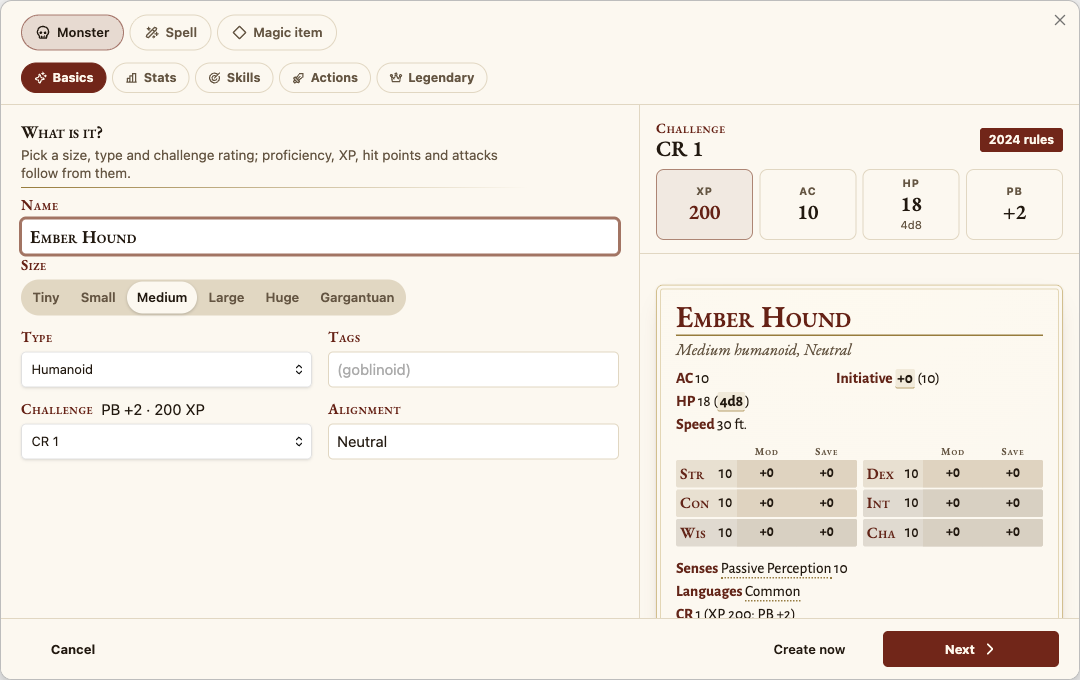
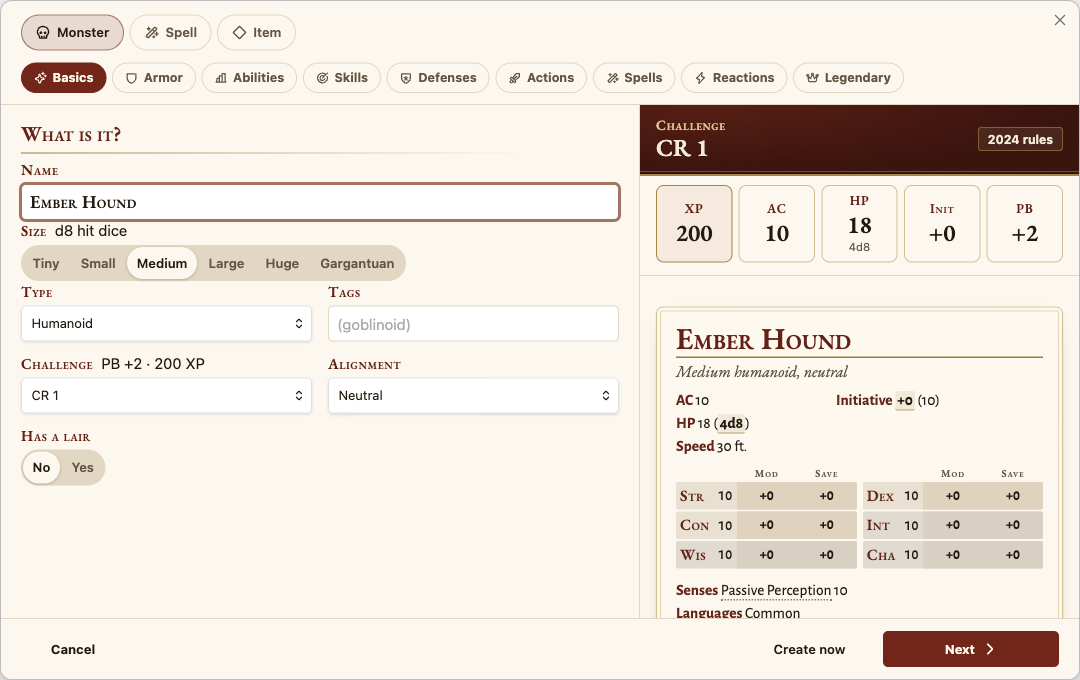
📝 The 5e guide covers every builder field and each step of New character and Level up
"Make your own" now walks through building a monster, a spell and an item,
with a weapon block as an example and your items on sheets; homebrew is tagged
Homebrew. "Character sheets" lists the wizard's seven steps (tools and
languages, class choices, increases, equipment), what Level up asks and shows,
and that multiclassing isn't supported. New screenshots of the monster builder
and Level up, a fresh New character, and the design study's builder shots with
the wizard and Level up added.

diff --git a/prototypes/encounter-design-study.html b/prototypes/encounter-design-study.html
@@ -11592,8 +11592,10 @@ DEFS['5e'].tools = {
 		TOOL_SHOT('5e-roll-result', 236, 'Where a roll lands', 'A d20 for a d20 roll, the total in EB Garamond.'),
 		TOOL_SHOT('5e-homebrew-spell', 664, 'A homebrew spell (```5e-spell)', 'The compendium’s card with the gold hairline; Homebrew, not SRD 5.2.'),
 		TOOL_SHOT('5e-homebrew-item', 664, 'A homebrew item (```5e-item)', 'The same frame.'),
-		TOOL_SHOT('5e-builder-monster', 1080, 'New monster: Basics', 'Labels in small caps, the edition as an oxblood tag, the stat block the book’s.'),
+		TOOL_SHOT('5e-builder-monster', 1080, 'New monster: Basics', 'Labels in small caps; the check on the sheet’s oxblood banner with a gold rule, its numbers on gold-edged plaques; the stat block the book’s.'),
 		TOOL_SHOT('5e-builder-spell', 1080, 'New spell', 'The same frame for a spell.'),
+		TOOL_SHOT('5e-character-wizard', 1080, 'New character: Abilities', 'Ability plaques with gold corners, a score swapped by picking another’s; the hero in brief on the banner, saves and skills marked with the sheet’s diamonds.'),
+		TOOL_SHOT('5e-level-up', 1080, 'Level up', 'What the level brings beside the steps: hit points, proficiency, new features and slots, the increase.'),
 		TOOL_SHOT('5e-builder-phone', 390, 'New monster on a phone', 'Full screen; the preview is a button in the footer.'),
 		TOOL_SHOT('5e-map', 716, 'A GM map with the fight as tokens', 'Oxblood pins with a gold ring; the fight’s monsters as oxblood discs, their names in Garamond small caps.'),
 	],

diff --git a/prototypes/design-study/src/78-tools.js b/prototypes/design-study/src/78-tools.js
@@ -64,8 +64,10 @@ DEFS['5e'].tools = {
 		TOOL_SHOT('5e-roll-result', 236, 'Where a roll lands', 'A d20 for a d20 roll, the total in EB Garamond.'),
 		TOOL_SHOT('5e-homebrew-spell', 664, 'A homebrew spell (```5e-spell)', 'The compendium’s card with the gold hairline; Homebrew, not SRD 5.2.'),
 		TOOL_SHOT('5e-homebrew-item', 664, 'A homebrew item (```5e-item)', 'The same frame.'),
-		TOOL_SHOT('5e-builder-monster', 1080, 'New monster: Basics', 'Labels in small caps, the edition as an oxblood tag, the stat block the book’s.'),
+		TOOL_SHOT('5e-builder-monster', 1080, 'New monster: Basics', 'Labels in small caps; the check on the sheet’s oxblood banner with a gold rule, its numbers on gold-edged plaques; the stat block the book’s.'),
 		TOOL_SHOT('5e-builder-spell', 1080, 'New spell', 'The same frame for a spell.'),
+		TOOL_SHOT('5e-character-wizard', 1080, 'New character: Abilities', 'Ability plaques with gold corners, a score swapped by picking another’s; the hero in brief on the banner, saves and skills marked with the sheet’s diamonds.'),
+		TOOL_SHOT('5e-level-up', 1080, 'Level up', 'What the level brings beside the steps: hit points, proficiency, new features and slots, the increase.'),
 		TOOL_SHOT('5e-builder-phone', 390, 'New monster on a phone', 'Full screen; the preview is a button in the footer.'),
 		TOOL_SHOT('5e-map', 716, 'A GM map with the fight as tokens', 'Oxblood pins with a gold ring; the fight’s monsters as oxblood discs, their names in Garamond small caps.'),
 	],

diff --git a/docs/5e.md b/docs/5e.md
@@ -74,9 +74,35 @@ Each group shows its CR, AC, HP and XP, and a bar shows the fight's XP against y
 
 ## Make your own
 
-**New monster…**, **New spell…** and **New item…** (or `/new-monster`, `/new-spell`, `/new-item` in a note) open 5e's builder in a 5e campaign. Fill in what you know and the rest follows from the rules: proficiency and XP from the challenge rating, hit points from the hit dice and Constitution, saves and skills from the abilities, passive Perception, and attack bonuses and damage from the ability you pick. Attacks are worded the way your edition prints them. The preview is the stat block or card itself.
+**New monster…**, **New spell…** and **New item…** (or `/new-monster`, `/new-spell`, `/new-item` in a note) open 5e's builder in a 5e campaign. Fill in what you know and the rest follows from the rules, worded the way your edition prints it. The preview is the stat block or card itself, with the challenge rating, XP, AC, HP and proficiency bonus on the banner above it.
 
-The builder looks like the book: the stat block or card on paper beside the form, and the challenge rating, XP, AC, HP and proficiency bonus above it as you work. Monsters are written as ```` ```5e ```` blocks. Spells and magic items are written as ```` ```5e-spell ```` and ```` ```5e-item ```` blocks: properties first, one per line, then the text:
+![The 5e monster builder on its Actions step: a breath weapon set up as a Dexterity saving throw with its DC from Constitution and 6d6 Fire damage, the challenge rating, XP, AC, HP, initiative and proficiency on the banner, and the stat block beside it](images/guide-5e-builder.png)
+
+### Building a monster
+
+- **Basics:** name, size, type and tags, alignment and challenge rating (its proficiency bonus and XP beside it). In 2024, whether it has a lair: the next rating's XP when you fight it there, and one more legendary action.
+- **Armor:** the armor it wears and a shield (AC follows, with Dex as the armor allows), or natural armor and its AC. Hit dice: the hit points follow from them and Constitution, or type your own. Walking, flying (and hovering), climbing, swimming and burrowing speeds.
+- **Abilities:** the six scores and the saving throws it's proficient in, each with its bonus. In 2024, initiative with proficiency or expertise.
+- **Skills:** skills and expertise, darkvision, blindsight, tremorsense and truesight, and languages. Passive Perception is worked out.
+- **Defenses:** resistances, immunities, vulnerabilities and condition immunities, and anything else as text ("bludgeoning from nonmagical attacks"). In 2024, its gear; armor and a shield go in it for you.
+- **Actions:** traits, then actions. An action is a melee, ranged, or melee or ranged attack (to hit and damage from the ability you pick, and extra damage such as "plus 7 (2d6) Fire damage"), a saving throw (its DC from an ability, who saves, the damage and half on a success, and what a failure does), or text of your own. Any action or trait can have uses: Recharge 5–6, 3/Day.
+- **Spells:** a spellcasting ability and spells at will and per day. The save DC and attack bonus are worked out.
+- **Reactions** and bonus actions, and **Legendary** actions with how many it takes a round.
+
+Built this way, a Goblin, an Ogre or an Adult Red Dragon comes out with the SRD's numbers and wording. Start from an SRD monster and its attacks and breath weapons open as fields you can change.
+
+### Building a spell
+
+Level, school and classes; casting time (with a reaction's trigger), ritual, range and area, components with the material, duration and concentration. Then pick a spell attack or a saving throw and its damage: the builder adds the SRD's sentence for it to your text ("Each creature in a 15-foot Cone makes a Dexterity saving throw, taking 3d6 Fire damage on a failed save or half as much damage on a successful one.") and writes the higher-level or cantrip damage too, unless you write your own.
+
+### Building an item
+
+- **Magic items:** type, rarity, attunement and who by, charges and how many come back at dawn. A weapon, armor or ammunition can have a +1, +2 or +3, with the book's rarity for it beside the rarity.
+- **Weapons, armor and gear:** damage, properties, range, two-handed damage and (2024) mastery; armor's AC, Strength and Stealth; cost and weight.
+
+### How they're written
+
+Monsters are written as ```` ```5e ```` blocks. Spells and items are written as ```` ```5e-spell ```` and ```` ```5e-item ```` blocks: properties first, one per line, then the text:
 
 ```text
 ```5e-spell
@@ -89,13 +115,27 @@ components: V, S, M (a pinch of ash)
 duration: Concentration, up to 1 minute
 classes: Sorcerer, Wizard
 
-A whip of fire lashes out at a creature you can see within range…
+A whip of fire lashes out. Make a ranged spell attack against the target. On a hit, the target takes 3d8 Fire damage.
 
-Using a Higher-Level Spell Slot: The damage increases by 1d6 for each spell slot level above 2.
+Using a Higher-Level Spell Slot: The damage increases by 1d8 for each spell slot level above 2.
 ```
 ```
 
-Your spells and items work everywhere the SRD's do: `` `5e:spell:Ember Lash` `` references, autocomplete, `/spell`, Spotlight and the compendium (tagged **Note**). One with the same name as an SRD entry replaces it. The pencil on any of these blocks reopens it in the builder.
+A weapon, armor or gear has a category instead of a rarity:
+
+```text
+```5e-item
+name: Ember Pike
+category: Martial Melee Weapon
+damage: 1d10 piercing
+properties: Heavy, Reach, Two-Handed
+mastery: Cleave
+cost: 20 gp
+weight: 18 lb.
+```
+```
+
+Your spells and items work everywhere the SRD's do: `` `5e:spell:Ember Lash` `` references, autocomplete, `/spell`, Spotlight and the compendium (tagged **Homebrew**). One with the same name as an SRD entry replaces it. Character sheets use them too: your weapon attacks with its damage, and a magic weapon or armor with a type like "Weapon (Longsword)" fights as a longsword with its bonus. The pencil on any of these blocks reopens it in the builder.
 
 ## Content packs
 
@@ -197,12 +237,17 @@ Reference any of them with its kind: `` `5e:spell:Fireball` ``, `` `5e:item:Bag 
 
 **New character** in a 5e campaign walks you through it, with the sheet's numbers beside you as you choose:
 
-1. **Who:** name, class, level, species (race and subrace, for 2014) and background.
-2. **Abilities:** a card per ability. The standard array set out for your class, point buy (with the points left), or your own scores. In 2024 the background's +2 and +1 go to its best abilities for your class unless you pick them; in 2014 your race's bonuses are added. Each card shows the bonus, the final score and the modifier.
-3. **Skills:** your class's picks (it stops at the number your class allows); your background's are already ticked.
-4. **Class:** your subclass, if your level has one, and your cantrips and spells, grouped by level with how many you've picked.
+1. **Who:** name, class, level, species (race and subrace in 2014, lineage or ancestry in 2024) and background. A 2014 dragonborn picks their draconic ancestry here.
+2. **Abilities:** a card per ability. The standard array set out for your class, point buy (with the points left), a roll (4d6, the lowest dropped, six times) or your own scores. To move the array or your rolls around, pick another ability's score on a card and the two swap. In 2024 your background gives +2 and +1 (to its best abilities for your class unless you pick them) or +1 to all three; in 2014 your race's and subrace's bonuses are added, and a half-elf picks two more. Each card shows the bonus, the final score and the modifier.
+3. **Skills:** your class's picks (it stops at the number your class allows), your species' (a half-elf's two, a 2024 human's one, a 2024 elf's Keen Senses) and expertise when your class has it by your level. Your background's and your species' own are already ticked.
+4. **Tools:** the tools your class, species or background let you choose (a bard's three instruments, a dwarf's artisan's tools, a soldier's gaming set), and languages: Common and two standard languages in 2024, your race's and the ones it and your background let you choose in 2014.
+5. **Class:** your subclass if your level has one (a 2014 cleric, sorcerer or warlock picks at level 1), your class's own choices (2014's Fighting Style, Metamagic, invocations and Pact Boon; 2024's Fighting Style feat and Weapon Mastery), a 2024 human's origin feat, Magic Initiate's spells from a 2024 background, and your cantrips and spells: as many as your class knows or prepares at your level, or a wizard's spellbook.
+6. **Increases**, when you start at level 4 or higher: each level's Ability Score Improvement, as +2 to one score, +1 to two, or a feat.
+7. **Equipment:** your class's and your background's starting equipment, option by option, with anything you pick from a list (a martial weapon, a holy symbol); in 2024 the gold instead. Armor, a shield and weapons go on equipped.
 
-Beside every step is the character in brief: HP, AC, initiative, speed and proficiency, the six abilities with their saves, skills, spells and features.
+Beside every step is the character in brief: HP, AC, initiative, speed and proficiency, the six abilities with their saves, skills, spells, features, tools, languages and equipment.
+
+![5e's New character on its Class step: a level 3 wizard's spells picked from the spellbook's list, with the character beside them on the sheet's banner, its numbers, ability plaques and skills](images/feature-5e-character.png)
 
 The character is a note in the Party folder with a ```` ```5e-sheet ```` block. The sheet reads the note's properties, so you can also edit them by hand.
 
@@ -214,7 +259,7 @@ The sheet is set like the book and takes the page: the note's title and properti
 - **Hit points:** a bar with **−** and **+** (taps add up, then save as one change) and the HP keypad. Temporary HP show at the end of the bar. Hit dice are pips; at 0 HP, death saves take their place. Passive Perception, your size and Heroic Inspiration sit beside them.
 - **Conditions:** chips that open the rule, **×** to remove, **+ Add** from your edition's list. Exhaustion has its levels as pips, and a long rest takes one away.
 - **Abilities:** six plaques, each with the modifier (tap it to roll a check), the score, the saving throw and that ability's skills. Tap a skill's mark to go from not proficient to proficient to expertise.
-- **Tabs**, under your class's scrollwork: **Actions** (grouped as the book groups them: Actions, Bonus Actions, Reactions and Limited use; each damage roll shows its dice and an icon for its type), **Spells** (by level, with that level's slots as pips; **Cast** spends a slot), **Features** (by where they come from; tap one for its rules) and **Inventory** (equipped, quantity, gold).
+- **Tabs**, under your class's scrollwork: **Actions** (grouped as the book groups them: Actions, Bonus Actions, Reactions and Limited use; each damage roll shows its dice and an icon for its type), **Spells** (by level, with that level's slots as pips; **Cast** spends a slot), **Features** (by where they come from; tap one for its rules; then your proficiencies: armor and weapons, tools, languages and weapon masteries) and **Inventory** (equipped, quantity, gold).
 - **Limited use:** features like Rage, Channel Divinity and Arcane Recovery have a pip for each use, and rests bring them back.
 
 The sheet works out:
@@ -223,15 +268,19 @@ The sheet works out:
 - **Passive Perception, initiative and AC:** AC comes from the armor you've equipped, Dex as it allows, and a shield. Barbarians and Monks get Unarmored Defense. Set `ac:` to override.
 - **Attacks:** from equipped weapons, using Dex for ranged weapons and the better of Str and Dex for finesse ones.
 - **Spellcasting:** save DC, attack bonus and spell slots from your class's table.
-- **Features and traits:** your class and subclass features up to your level, plus your species' traits.
+- **Features and traits:** your class and subclass features up to your level, plus your species' traits. Where your class offers options (a Fighting Style, invocations), only the ones you chose show; they're listed under `choices:`.
 
 Everything with a number rolls. Tap slot pips to spend and restore them.
 
 - **Short rest** spends a hit die and heals, and brings back what a short rest restores.
 - **Long rest** brings back HP, slots and every feature's uses, plus all your hit dice in 2024, or half your level in 2014.
-- **Level up** walks you through the new level: hit points (the average, a roll, or what you rolled at the table), your subclass when it's time, an Ability Score Improvement or a feat (an Epic Boon at 19 in 2024), and new spells. It shows what the level brings before you finish.
+- **Level up** walks you through the new level: hit points (the average, a roll, or what you rolled at the table; a higher Constitution adds a point for every level), your subclass when it's time, an Ability Score Improvement or a feat (with the feat's own +1 where it has one, and an Epic Boon at 19 in 2024), expertise and your class's new choices and weapon masteries, then your new cantrips and spells, each as many as the level brings. Beside it is what the level brings: new features (your subclass's too), spell slots and your proficiency bonus.
 
-**Add spell** offers your class's list first. **Add item** offers equipment and magic items; weapons and armor go on equipped.
+![5e's Level up on its Spells step: a wizard going from level 3 to 4 picks two spellbook spells, with the hit points, the new level, the Ability Score Improvement and the spell slots it brings beside them](images/guide-5e-level-up.png)
+
+Level up adds a level of your one class: multiclassing isn't supported yet.
+
+**Add spell** offers your class's list first. **Add item** offers equipment and magic items, yours too; weapons and armor go on equipped.
 
 In a campaign you run, the encounter party comes from these sheets: level, max HP and AC.
 
